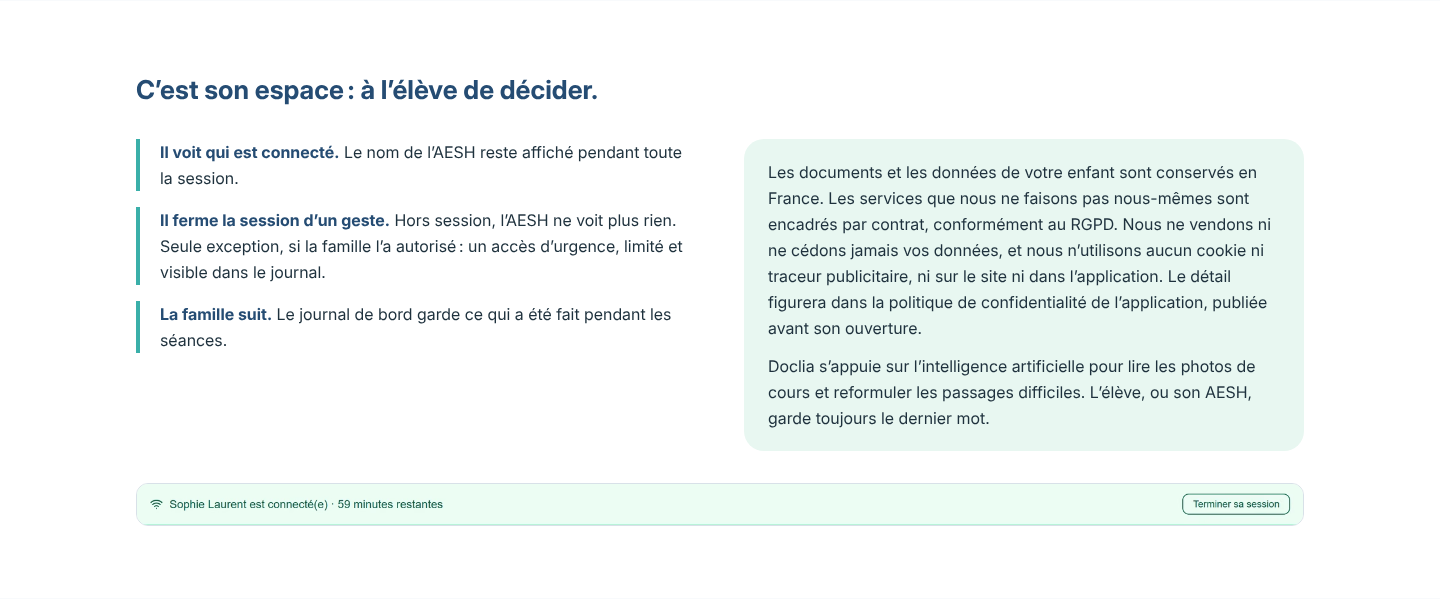
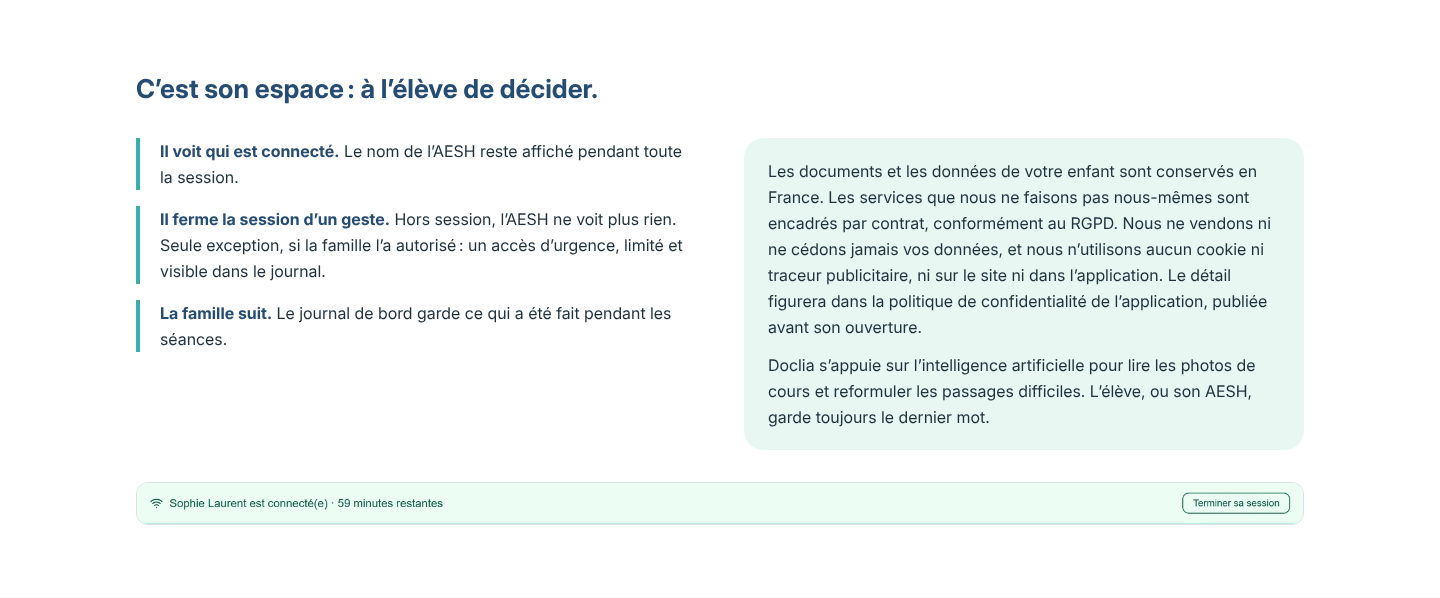
DEV-Site: accueil, étape 5 — capture du journal de bord en double densité (1370 × 1276, prise dans le Chrome du CEO à son accord, 26/10 16:30 ; même cadrage, sans pointeur, non retouchée), affichée en 1200 × 1118 avec vue agrandie
Claude-Session: https://claude.ai/code/session_01RpKnjWoS5fRHWa3MWZjy1P

diff --git a/index.html b/index.html
@@ -210,8 +210,8 @@
             <p>Rien ne se perd d’une séance à l’autre.</p>
           </div>
           <div class="step__media">
-            <!-- Accueil V2 §4.5 — visuel : capture du journal de bord (capture du CEO, 26/10, monde démo, non retouchée, bandeau compris ; métadonnées vides) ; alt : textes V1.66 (CMO 26/10 16:00, CTO 16:02). Fichier de 697 × 638 : pas de vue agrandie, elle n’apporterait rien. -->
-            <picture class="step__capture"><source srcset="/images/journal-bord.avif" type="image/avif"><img class="media" src="/images/journal-bord.webp" width="697" height="638" alt="Capture de l’application Doclia : le journal de bord, où l’AESH note ce qui a été fait pendant la séance." loading="lazy"></picture>
+            <!-- Accueil V2 §4.5 — visuel : capture du journal de bord, côté AESH (session avec Lucas, monde démo), prise le 26/10 16:30 par DEV-Site dans le Chrome du CEO, à son accord, au même cadrage que sa capture de 16:00 mais en double densité (1370 × 1276), non retouchée, bandeau compris ; texte de la saisie tapé sans être enregistré ; alt : textes V1.66 (CMO 26/10 16:00, CTO 16:02) ; vue agrandie images/journal-bord-grand.webp -->
+            <a class="zoom" href="/images/journal-bord-grand.webp"><span class="visually-hidden">Agrandir : </span><picture class="step__capture"><source srcset="/images/journal-bord.avif" type="image/avif"><img class="media" src="/images/journal-bord.webp" width="1200" height="1118" alt="Capture de l’application Doclia : le journal de bord, où l’AESH note ce qui a été fait pendant la séance." loading="lazy"></picture></a>
           </div>
         </article>
       </div>
